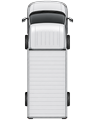
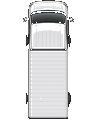
Live: mashina ikonkalari fonsiz (transparent) + professional soyasi

Changed region(s): [[0.2188, 0.0, 0.7812, 1.0], [0.5938, 0.25, 0.625, 0.275], [0.4062, 0.8, 0.4375, 0.825]]

diff --git a/live.html b/live.html
@@ -430,22 +430,32 @@ body.app-body {
 }
 .live-unit {
   position: relative;
-  width: 44px;
-  height: 58px;
+  width: 46px;
+  height: 60px;
   display: grid;
   place-items: center;
   transform-origin: 50% 50%;
   transition: transform .35s linear;
-  filter: drop-shadow(0 2px 3px rgba(0,0,0,.35));
+  /* faqat soyasi — quti/fon yo‘q */
+  filter: drop-shadow(0 1px 2px rgba(11,31,58,.45)) drop-shadow(0 3px 8px rgba(11,31,58,.22));
+  background: transparent !important;
 }
 .live-unit-img {
-  width: 40px;
-  height: 56px;
+  width: 42px;
+  height: 58px;
   object-fit: contain;
   display: block;
   pointer-events: none;
   user-select: none;
   -webkit-user-drag: none;
+  background: transparent !important;
+  border: none !important;
+  border-radius: 0 !important;
+  box-shadow: none !important;
+  /* PNG shaffof; qora fon qolsa ham aralashtirib yashirish */
+  mix-blend-mode: normal;
+  image-rendering: -webkit-optimize-contrast;
+  image-rendering: crisp-edges;
 }
 .live-unit-img.offline { filter: grayscale(.85) brightness(1.05); opacity: .88; }
 .live-unit-img.moving { filter: saturate(1.08) contrast(1.02); }
@@ -507,16 +517,23 @@ body.app-body {
   margin-top: 2px;
   font: 800 10px/1 'IBM Plex Mono', monospace;
   color: #0f8a38;
-  background: rgba(255,255,255,.92);
-  border: 1px solid #9fd4b0;
+  background: rgba(255,255,255,.94);
+  border: 1px solid rgba(159,212,176,.85);
   border-radius: 999px;
   padding: 2px 7px;
   white-space: nowrap;
   box-shadow: 0 1px 4px rgba(11,31,58,.12);
   z-index: 5;
 }
+/* holat — yumshoq yashil nur (quti emas) */
 .live-marker.moving .live-unit {
-  filter: drop-shadow(0 0 6px rgba(34,197,94,.55)) drop-shadow(0 2px 3px rgba(0,0,0,.35));
+  filter: drop-shadow(0 0 5px rgba(34,197,94,.5)) drop-shadow(0 1px 2px rgba(11,31,58,.4)) drop-shadow(0 3px 8px rgba(11,31,58,.2));
+}
+.live-marker.stopped .live-unit {
+  filter: drop-shadow(0 0 4px rgba(26,95,180,.35)) drop-shadow(0 1px 2px rgba(11,31,58,.4)) drop-shadow(0 3px 8px rgba(11,31,58,.2));
+}
+.live-marker.offline .live-unit {
+  filter: drop-shadow(0 1px 2px rgba(11,31,58,.3)) grayscale(.2);
 }
 .live-marker {
   width: 78px;
@@ -750,6 +767,6 @@ body.app-body {
 <script src="auth.js?v=44"></script>
 <script src="map-tiles.js?v=8"></script>
 <script src="map-geozones.js?v=5"></script>
-<script src="live.js?v=18"></script>
+<script src="live.js?v=19"></script>
 </body>
 </html>

diff --git a/live.js b/live.js
@@ -19,10 +19,10 @@ const LIVE = {
 };
 
 const LIVE_KIND_SRC = {
-  truck: '/assets/live/icon-truck.png?v=3',
-  damas: '/assets/live/icon-damas.png?v=3',
-  labo: '/assets/live/icon-labo.png?v=3',
-  car: '/assets/live/icon-car.png?v=1',
+  truck: '/assets/live/icon-truck.png?v=5',
+  damas: '/assets/live/icon-damas.png?v=5',
+  labo: '/assets/live/icon-labo.png?v=5',
+  car: '/assets/live/icon-car.png?v=5',
 };
 
 /* Ikonka faylida old tomon YUQORIGA qaragan (0° = shimol). */
